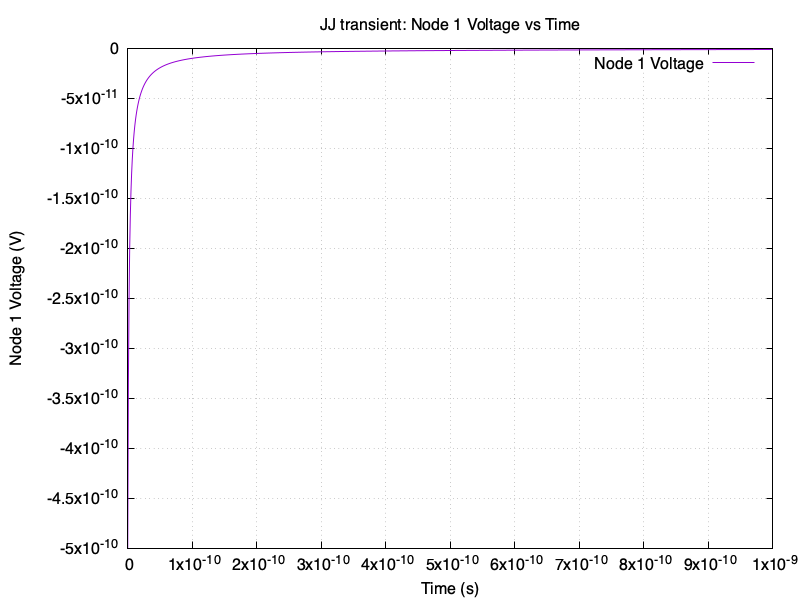
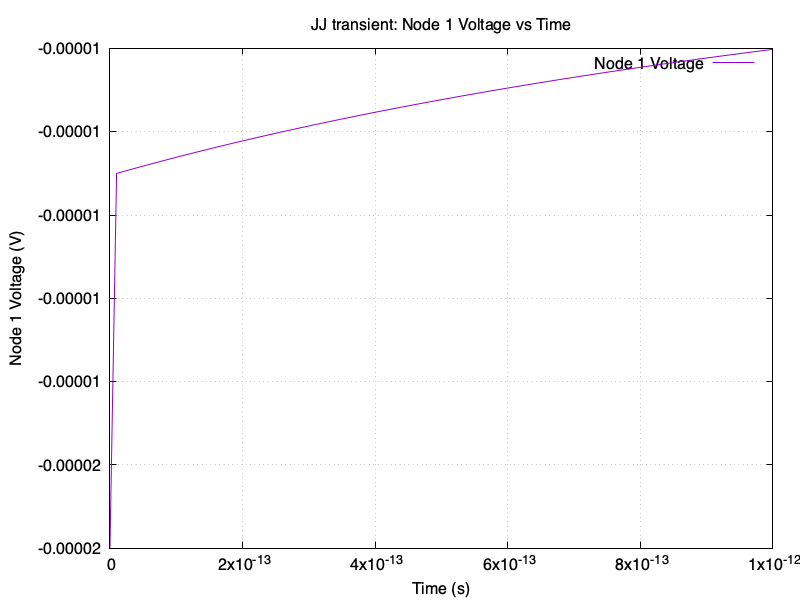
Fix parameters

diff --git a/jj_main.cpp b/jj_main.cpp
@@ -1,5 +1,8 @@
 #include "circulator_simulator.h"
 #include <iostream>
+#include <cmath>
+
+const double C_TO_IC = 2 * 3.14 * pow((1 / (2 * 3.14 * 200e9)), 2.0) / 2.067833848e-15;
 
 int main() {
     // Create a circuit
@@ -11,25 +14,25 @@ int main() {
     int phaseNode = 2; // Phase node for the Josephson Junction
 
     // Add a voltage source (e.g., 1 V) between node1 and node2
-    double voltage = 1.0e-9; // Voltage in volts
+    double voltage = 1.8e-3; // Voltage in volts
     int voltageSourceIndex = 0; // Index for the voltage source
     circuit.addComponent(std::make_unique<VoltageSource>(node2, node1, voltage, voltageSourceIndex));
 
     // Add a Josephson Junction between node1 and node2
-    double criticalCurrent = 1e-6; // Critical current in Amperes (1 µA)
-    double resistance = 100.0; // Resistance in Ohms (100 Ω)
-    double capacitance = 1e-12; // Capacitance in Farads (1 pF)
-    double timeStep = 1e-12; // Time step in seconds (1 ps)
+    double criticalCurrent = 1e-9; // Critical current in Amperes
+    double resistance = 1.0; // Resistance in Ohms
+    double capacitance = C_TO_IC * criticalCurrent; // Capacitance in Farads
+    double timeStep = 0.01e-12; // Time step in seconds 
     circuit.addComponent(std::make_unique<JosephsonJunction>(node1, node2, phaseNode, criticalCurrent, resistance, capacitance, timeStep));
 
     // Run transient simulation
-    double endTime = 1e-9; // End time in seconds (1 ns)
+    double endTime = 1e-12; // End time in seconds (1 ns)
     circuit.runTransient_jj(endTime, timeStep);
 
     // Save the results to a file
     circuit.saveResultsToFile("jj_transient_results.txt");
 
-    std::cout << "Transient simulation completed. Results saved to 'jj_transient_results.csv'." << std::endl;
+    std::cout << "Transient simulation completed. Results saved to 'jj_transient_results.txt'." << std::endl;
 
     return 0;
 }
